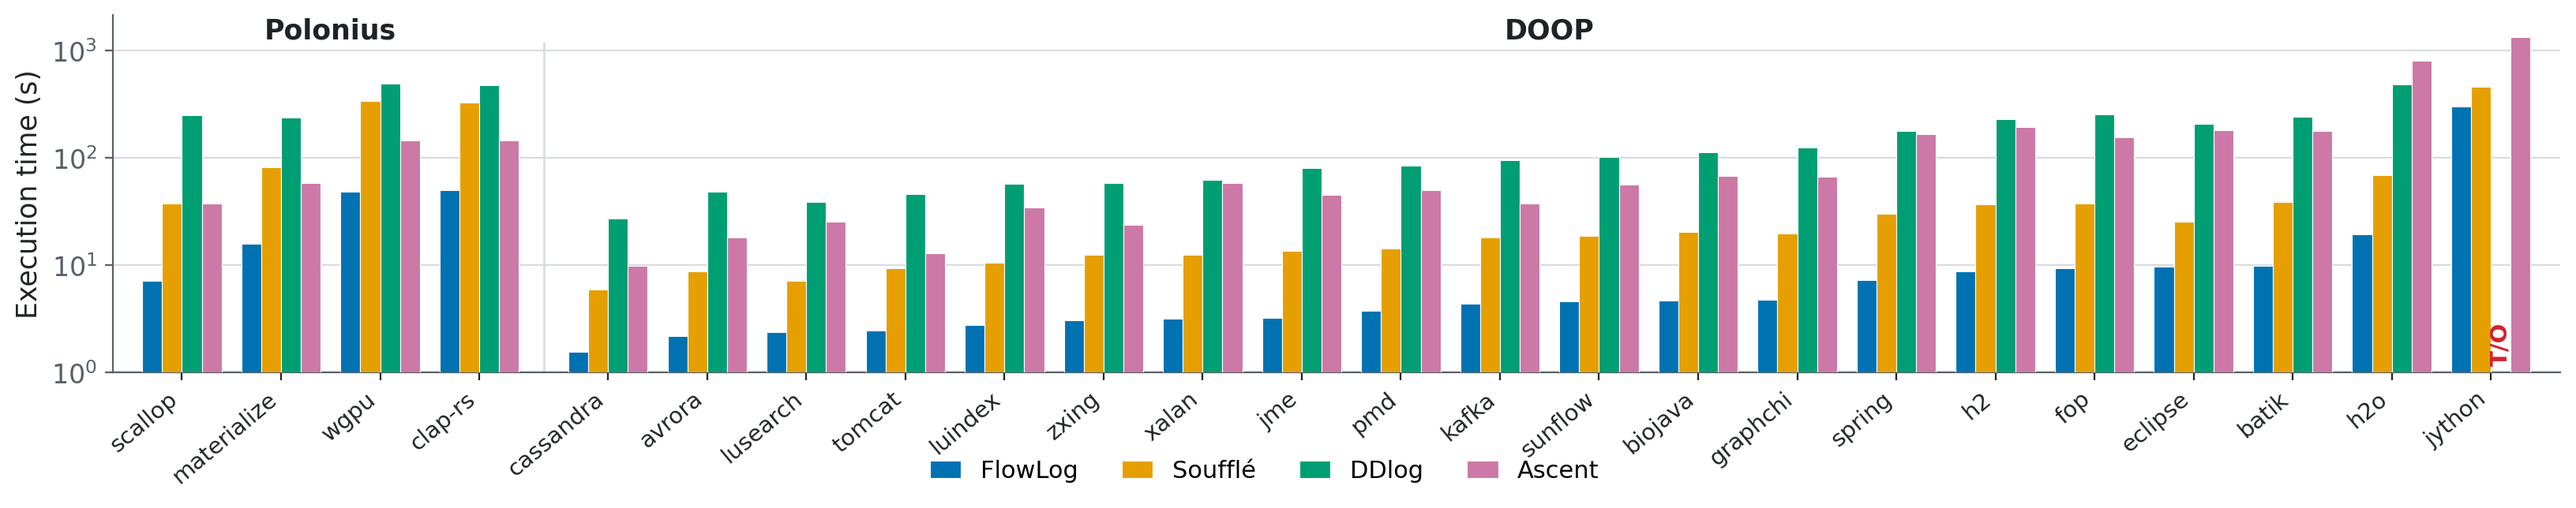
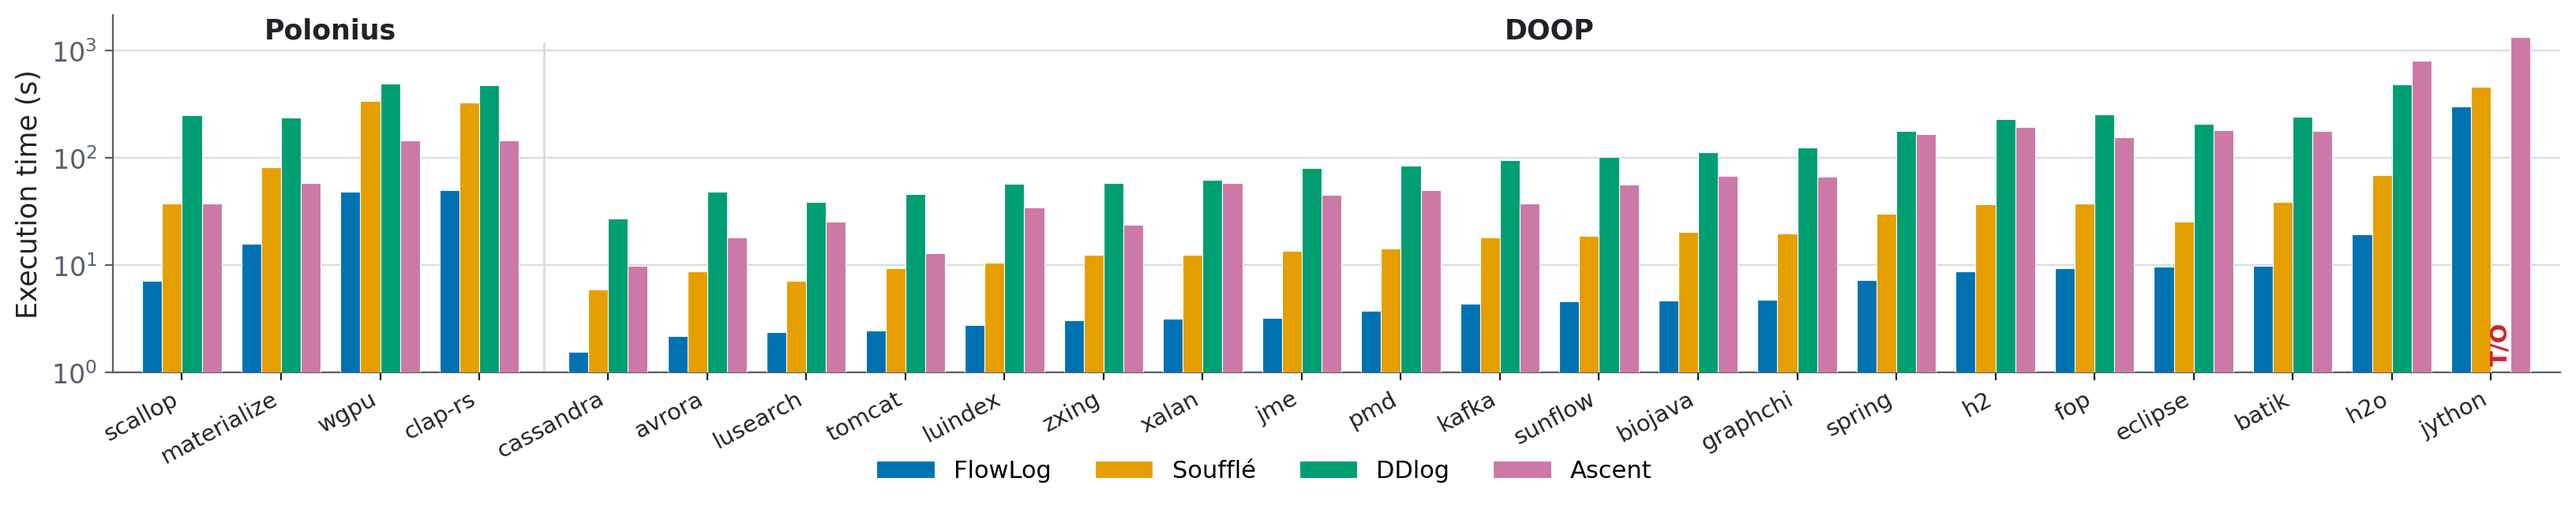
Longer legend swatches; shallower dataset-name angle
handlelength 1.3->2.4 for longer legend color bars; x-tick rotation
40->28 degrees so the dataset names sit flatter.

diff --git a/plot/plot_paper.py b/plot/plot_paper.py
@@ -170,12 +170,12 @@ def render(groups, stem, width, annotate):
     ax.set_axisbelow(True)
     ax.set_xlim(-0.7, ticks[-1] + 0.7)
     ax.set_xticks(ticks)
-    ax.set_xticklabels(labels, rotation=40, ha="right", fontsize=xfs)
+    ax.set_xticklabels(labels, rotation=28, ha="right", fontsize=xfs)
 
     handles, lbls = ax.get_legend_handles_labels()
     fig.legend(handles, lbls, loc="lower center", ncol=len(ENGINES),
                frameon=False, fontsize=11, bbox_to_anchor=(0.5, -0.03),
-               columnspacing=1.8, handlelength=1.3)
+               columnspacing=1.8, handlelength=2.4)
 
     fig.subplots_adjust(top=0.97, bottom=0.24, left=0.06, right=0.995)
     for ext in ("pdf", "png"):
